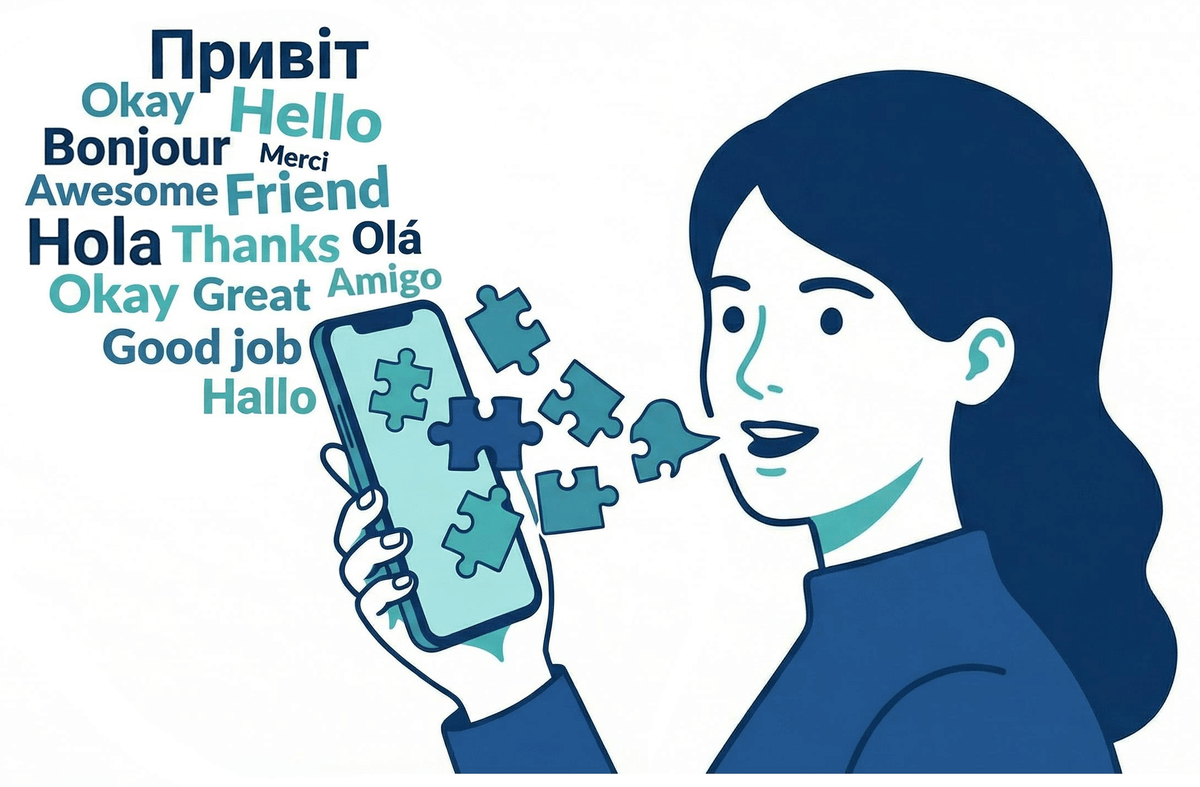
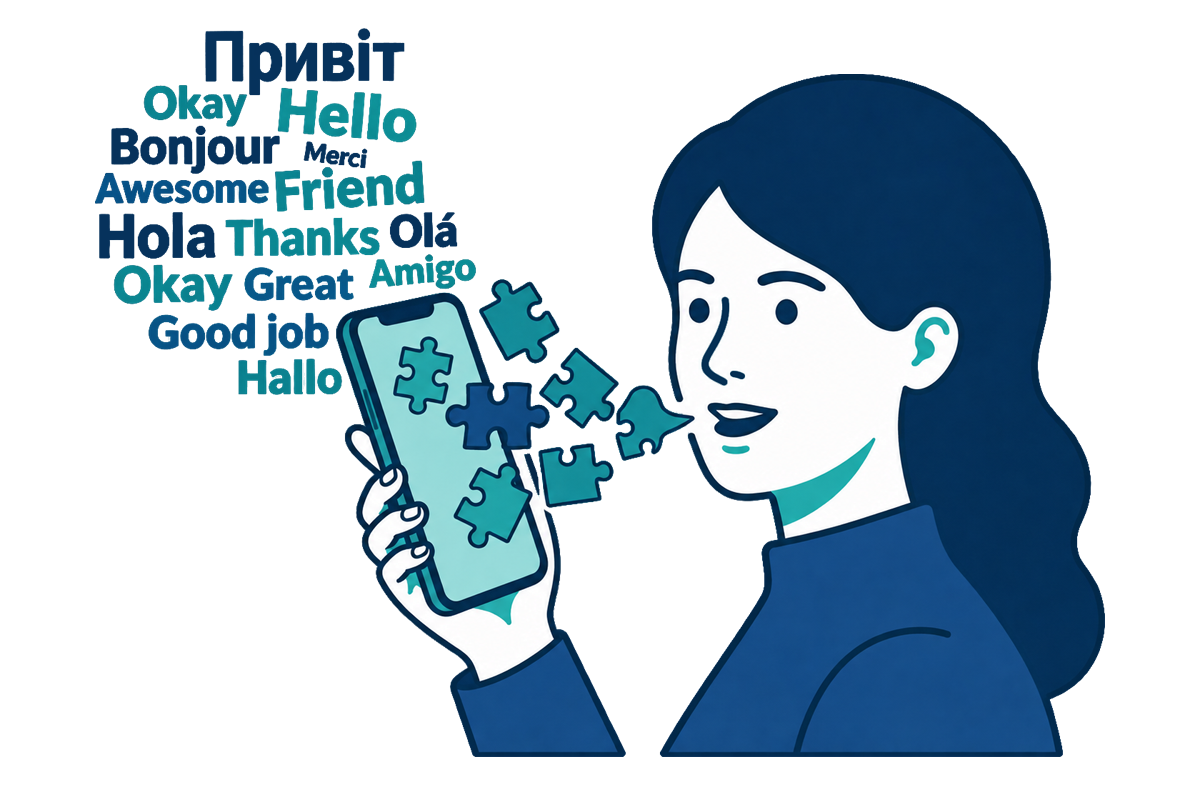
feat(ui,i18n): integrate dark/light hero assets and refine "How It Works" copy
Summary:
Finalize visual asset integration for Light/Dark themes and update the
"How It Works" section copy and badge styling across all supported languages.

Key Changes:
- Visual Assets & Theme Polish:
  * Switch Hero illustration between light and dark versions using dedicated
    theme wrapper containers to prevent CSS specificity conflicts.
  * Remove temporary light backdrop from header logo following transparent
    asset update.

- Content & Localization (All 7 Languages):
  * Remove hardcoded phrase count from Step 2 ('howItWorks.step2_desc'),
    generalizing it to "a set of core phrases".
  * Replace the "Coming Soon" badge on Step 3 ("Expand Vocabulary") with a
    brand-styled "Testers only" badge ('howItWorks.badge') across en, uk, de,
    es, fr, pt, and sv locales, and update Step 3 description copy.

Changed region(s): [[0.0, 0.0305, 0.9867, 1.0]]

diff --git a/src/index.html b/src/index.html
@@ -91,18 +91,37 @@
                     </div>
                 </div>
                 <div class="flex justify-center items-center relative z-10 mt-10 md:mt-0">
-                    <picture class="hero-wrapper">
-                        <source srcset="images/hearme-hero-speech-communication.webp" type="image/webp">
-                        
-                        <img 
-                            src="images/hearme-hero-speech-communication.png" 
-                            alt="Woman using HearMe app, puzzle pieces coming together to form a clear speech bubble, representing the reconstruction of speech"
-                            class="w-full max-w-lg lg:max-w-2xl h-auto object-contain rounded-2xl dark:bg-white/95 dark:p-3 dark:ring-1 dark:ring-white/20 dark:shadow-[0_0_50px_-12px_rgba(10,147,150,0.35)] hero-floating-img tilt-card transition-all duration-500 ease-out hover:shadow-2xl hover:-translate-y-2 cursor-default"
-                            data-tilt-strength="5"
-                            width="1200"
-                            height="787"
-                        >
-                    </picture>
+                    <!-- Light Theme Hero Illustration -->
+                    <div class="block dark:hidden w-full max-w-lg lg:max-w-2xl">
+                        <picture class="hero-wrapper">
+                            <source srcset="images/hearme-hero-speech-communication.webp" type="image/webp">
+                            
+                            <img 
+                                src="images/hearme-hero-speech-communication.png" 
+                                alt="Woman using HearMe app, puzzle pieces coming together to form a clear speech bubble, representing the reconstruction of speech"
+                                class="w-full h-auto object-contain rounded-2xl hero-floating-img tilt-card transition-all duration-500 ease-out hover:shadow-2xl hover:-translate-y-2 cursor-default"
+                                data-tilt-strength="5"
+                                width="1200"
+                                height="787"
+                            >
+                        </picture>
+                    </div>
+
+                    <!-- Dark Theme Hero Illustration -->
+                    <div class="hidden dark:block w-full max-w-lg lg:max-w-2xl">
+                        <picture class="hero-wrapper">
+                            <source srcset="images/hearme-hero-speech-communication-dark.webp" type="image/webp">
+                            
+                            <img 
+                                src="images/hearme-hero-speech-communication-dark.png" 
+                                alt="Woman using HearMe app, puzzle pieces coming together to form a clear speech bubble, representing the reconstruction of speech"
+                                class="w-full h-auto object-contain rounded-2xl hero-floating-img tilt-card transition-all duration-500 ease-out hover:shadow-2xl hover:-translate-y-2 cursor-default"
+                                data-tilt-strength="5"
+                                width="1200"
+                                height="787"
+                            >
+                        </picture>
+                    </div>
                 </div>
             </div>
         </section>
@@ -223,10 +242,10 @@
                             <div class="relative z-10">
                                 <div class="flex flex-col md:flex-row items-center md:justify-start gap-3 mb-2">
                                     <span class="text-4xl md:text-5xl font-bold text-brand-teal/20 select-none order-1 md:order-2" aria-hidden="true">02</span>
-                                    <h3 class="text-xl md:text-2xl font-semibold text-brand-navy dark:text-white m-0 order-2 md:order-1" data-i18n="howItWorks.step2_title">Core Training (Alpha)</h3>
+                                    <h3 class="text-xl md:text-2xl font-semibold text-brand-navy dark:text-white m-0 order-2 md:order-1" data-i18n="howItWorks.step2_title">Core Training</h3>
                                 </div>
                                 <p class="text-gray-600 dark:text-gray-300" data-i18n="howItWorks.step2_desc">
-                                    Train 5 predefined phrases by recording multiple voice samples for each. This builds a robust baseline model tailored specifically to your speech patterns.
+                                    Train a set of core phrases by recording a few voice samples for each. This builds a robust baseline model tailored specifically to your voice.
                                 </p>
                             </div>
                             <div class="hidden md:block absolute top-1/2 -left-[calc(2rem+5px)] w-5 h-5 bg-brand-teal rounded-full border-4 border-white dark:border-brand-navy shadow-sm z-20 transform -translate-y-1/2"></div>
@@ -236,20 +255,20 @@
                     <!-- Step 03 -->
                     <div class="grid md:grid-cols-2 gap-8 items-center relative z-20 mt-8 md:-mt-12">
                         <div class="bg-white dark:bg-slate-800/80 p-6 md:p-8 rounded-xl shadow-lg border border-gray-100 dark:border-slate-700 text-center md:text-right relative tilt-card reveal">
-                            <div class="absolute top-0 left-0 md:left-0 md:right-auto bg-gray-100 dark:bg-slate-700 text-gray-500 dark:text-gray-300 text-xs font-bold px-3 py-1 rounded-tl-xl rounded-br-lg uppercase tracking-wide border-r border-b border-gray-200 dark:border-slate-600 z-20" data-i18n="howItWorks.step3_badge">
-                                Coming Soon
+                            <div class="absolute top-0 left-0 bg-teal-50 dark:bg-brand-teal/20 text-brand-teal-dark dark:text-brand-teal-light text-xs font-bold px-3 py-1 rounded-tl-xl rounded-br-lg uppercase tracking-wide border-r border-b border-brand-teal/20 dark:border-brand-teal/30 z-20" data-i18n="howItWorks.badge">
+                                Testers only
                             </div>
 
                             <div class="relative z-10">
                                 <div class="flex flex-col md:flex-row items-center md:justify-end gap-3 mb-2">
-                                    <span class="text-4xl md:text-5xl font-bold text-gray-200 dark:text-slate-600 select-none" aria-hidden="true">03</span>
-                                    <h3 class="text-xl md:text-2xl font-semibold text-brand-navy dark:text-white m-0 opacity-90" data-i18n="howItWorks.step3_title">Expand Vocabulary</h3>
+                                    <span class="text-4xl md:text-5xl font-bold text-brand-teal/20 select-none" aria-hidden="true">03</span>
+                                    <h3 class="text-xl md:text-2xl font-semibold text-brand-navy dark:text-white m-0" data-i18n="howItWorks.step3_title">Expand Vocabulary</h3>
                                 </div>
-                                <p class="text-gray-500 dark:text-gray-400" data-i18n="howItWorks.step3_desc">
-                                    In the full version, you will be able to add custom phrases specific to your life, making the AI smarter and more personalized.
+                                <p class="text-gray-600 dark:text-gray-300" data-i18n="howItWorks.step3_desc">
+                                    Add custom phrases unique to your daily routine to make the AI more personalized
                                 </p>
                             </div>
-                            <div class="hidden md:block absolute top-1/2 -right-[calc(2rem+5px)] w-5 h-5 bg-gray-300 dark:bg-slate-600 rounded-full border-4 border-white dark:border-brand-navy shadow-sm z-20 transform -translate-y-1/2"></div>
+                            <div class="hidden md:block absolute top-1/2 -right-[calc(2rem+5px)] w-5 h-5 bg-brand-teal rounded-full border-4 border-white dark:border-brand-navy shadow-sm z-20 transform -translate-y-1/2"></div>
                         </div>
                         <div class="hidden md:block"></div>
                     </div>

diff --git a/src/components/header.html b/src/components/header.html
@@ -1,7 +1,7 @@
 <header class="fixed w-full top-0 left-0 z-50 bg-white/95 dark:bg-brand-navy/95 backdrop-blur-lg shadow-md shadow-brand-teal/10 border-b border-brand-teal/10 dark:border-white/10 transition-colors duration-300 transform-gpu">
     <nav class="container mx-auto px-6 py-4 flex justify-between items-center">
-        <a href="/" class="flex items-center space-x-2 shrink-0 logo-sheen rounded-xl dark:bg-white/95 dark:px-2.5 dark:py-1 transition-all" aria-label="Go to homepage">
-            <img src="/images/logo-text-only.png" alt="HearMe Text Logo" class="h-10 lg:h-11 w-auto rounded-md">
+        <a href="/" class="flex items-center space-x-2 shrink-0 logo-sheen rounded-lg" aria-label="Go to homepage">
+            <img src="/images/logo-text-only.png" alt="HearMe Text Logo" class="h-10 lg:h-11 w-auto">
         </a>
 
         <div class="hidden lg:flex lg:space-x-5 xl:space-x-7 items-center">
